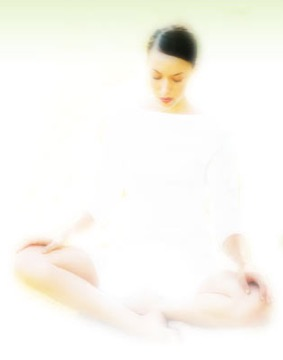
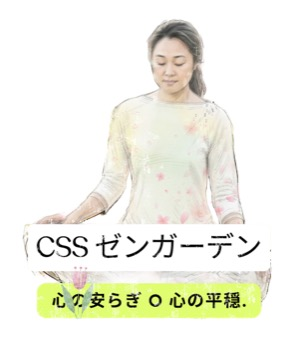
Replace yoga hero with Midori artwork

diff --git a/themes/184/184.css b/themes/184/184.css
@@ -83,8 +83,9 @@ li { list-style: none; }
   inset: 2% 0 0 auto;
   width: 49%;
   height: 96%;
-  background: url(girl.jpg) center 24% / contain no-repeat;
+  background: url(midori.png) center 14% / contain no-repeat;
   content: "";
+  opacity: .82;
   pointer-events: none;
 }
 
@@ -403,7 +404,7 @@ li { list-style: none; }
 @media (max-width: 900px) {
   .page-wrapper { width: min(100% - 36px, 760px); }
   .intro { min-height: 660px; grid-template-columns: minmax(0, 1fr) minmax(250px, .75fr); column-gap: 20px; }
-  .intro::before { width: 48%; height: 85%; opacity: .84; }
+  .intro::before { width: 48%; height: 85%; opacity: .82; }
   .preamble { width: 100%; padding: 22px; }
   .sidebar .wrapper { grid-template-columns: minmax(0, 1fr) minmax(180px, .75fr); gap: 14px; }
   #theme-list { grid-template-columns: 1fr; }
@@ -412,7 +413,7 @@ li { list-style: none; }
 @media (max-width: 640px) {
   .page-wrapper { width: calc(100% - 28px); }
   .intro { display: grid; grid-template-columns: 1fr; grid-template-rows: auto auto auto; min-height: 0; gap: 0; padding: 54px 0 40px; }
-  .intro::before { inset: 12px -14px auto auto; width: 72%; height: 350px; opacity: .36; background-position: center 18%; }
+  .intro::before { inset: 12px -14px auto auto; width: 72%; height: 350px; opacity: .52; background-position: center 18%; }
   .intro header { grid-column: 1; grid-row: 1; padding: 25px 0 0; }
   .intro h1 { max-width: 560px; font-size: clamp(42px, 13vw, 78px); }
   .intro h2 { max-width: 330px; margin-top: 16px; font-size: 18px; }
